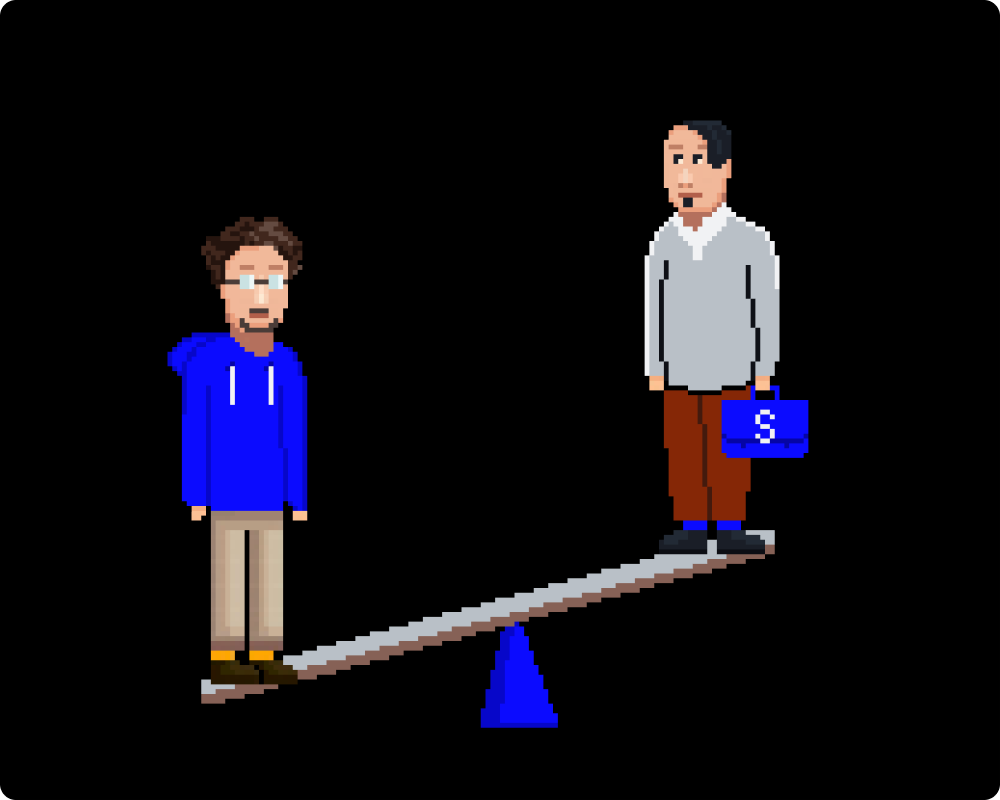
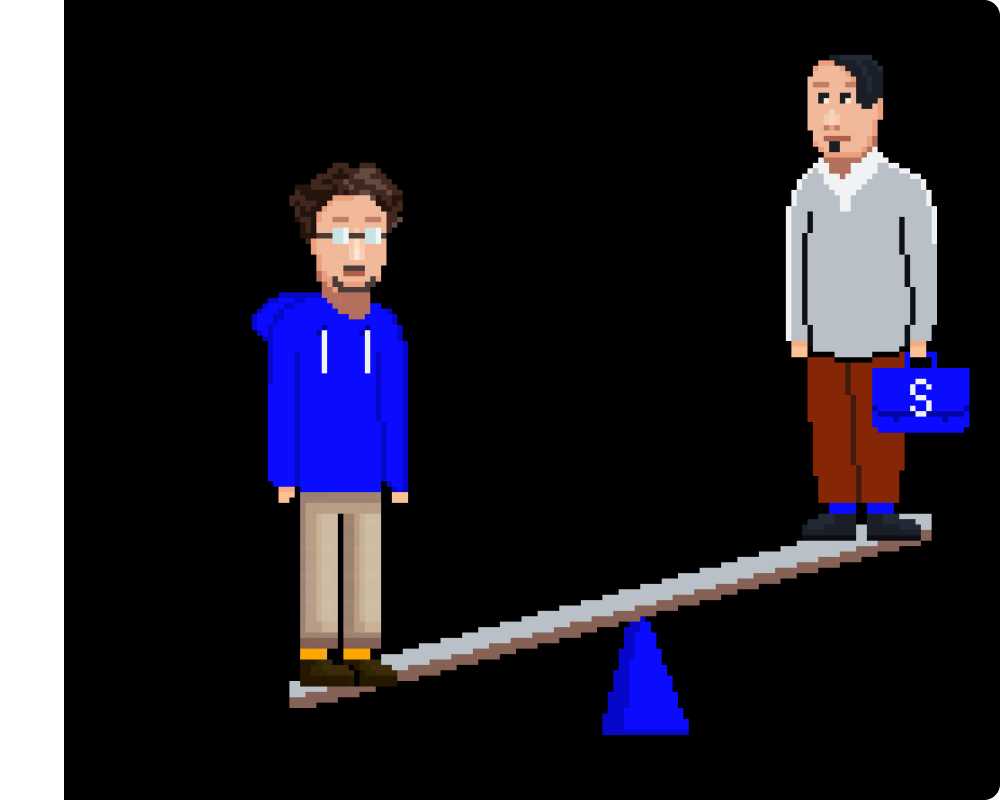
feat: fix hero illustration

diff --git a/src/containers/Terminal/index.js b/src/containers/Terminal/index.js
@@ -106,7 +106,6 @@ const contactRenderer = ({
   const { errors: fsErrors, submitting, succeeded } = formState
 
   const onSubmit = (data, event) => {
-    console.log('submitted', data, event)
     if (step < 4) {
       setStep((prev) => prev + 1)
     }
@@ -128,8 +127,6 @@ const contactRenderer = ({
     const { value } = e.target
 
     const val = value.toLowerCase()
-
-    console.log(val)
 
     if (e.code === 'Enter' || e.key === 'Enter') {
       if (val !== 'yes') e.preventDefault()
@@ -160,8 +157,6 @@ const contactRenderer = ({
         })
     }
     window.scrollTo(0, document.body.scrollHeight)
-
-    console.log(step)
   }, [step])
 
   return (
@@ -474,7 +469,7 @@ const Terminal = ({ openWebsite }) => {
                   key={cmd}
                   variant="dark"
                   onClick={(e) => handleCommand(e, cmd.toLowerCase())}
-                  disabled={isContact}
+                  disabled={cmd !== 'GUI' && isContact}
                 >
                   {cmd}
                 </Button>

diff --git a/src/containers/Landing/index.js b/src/containers/Landing/index.js
@@ -18,12 +18,7 @@ const Landing = () => {
           node {
             image {
               childImageSharp {
-                gatsbyImageData(
-                  width: 500
-                  quality: 100
-                  formats: AUTO
-                  placeholder: NONE
-                )
+                gatsbyImageData(width: 500, quality: 100, placeholder: NONE)
               }
             }
             header

diff --git a/src/components/Hero/Hero.module.scss b/src/components/Hero/Hero.module.scss
@@ -58,6 +58,9 @@
   &__img {
     flex: 0 0 auto;
     z-index: -1;
+    @include b-d(xl) {
+      transform: translateX(-14%);
+    }
   }
 }
 
